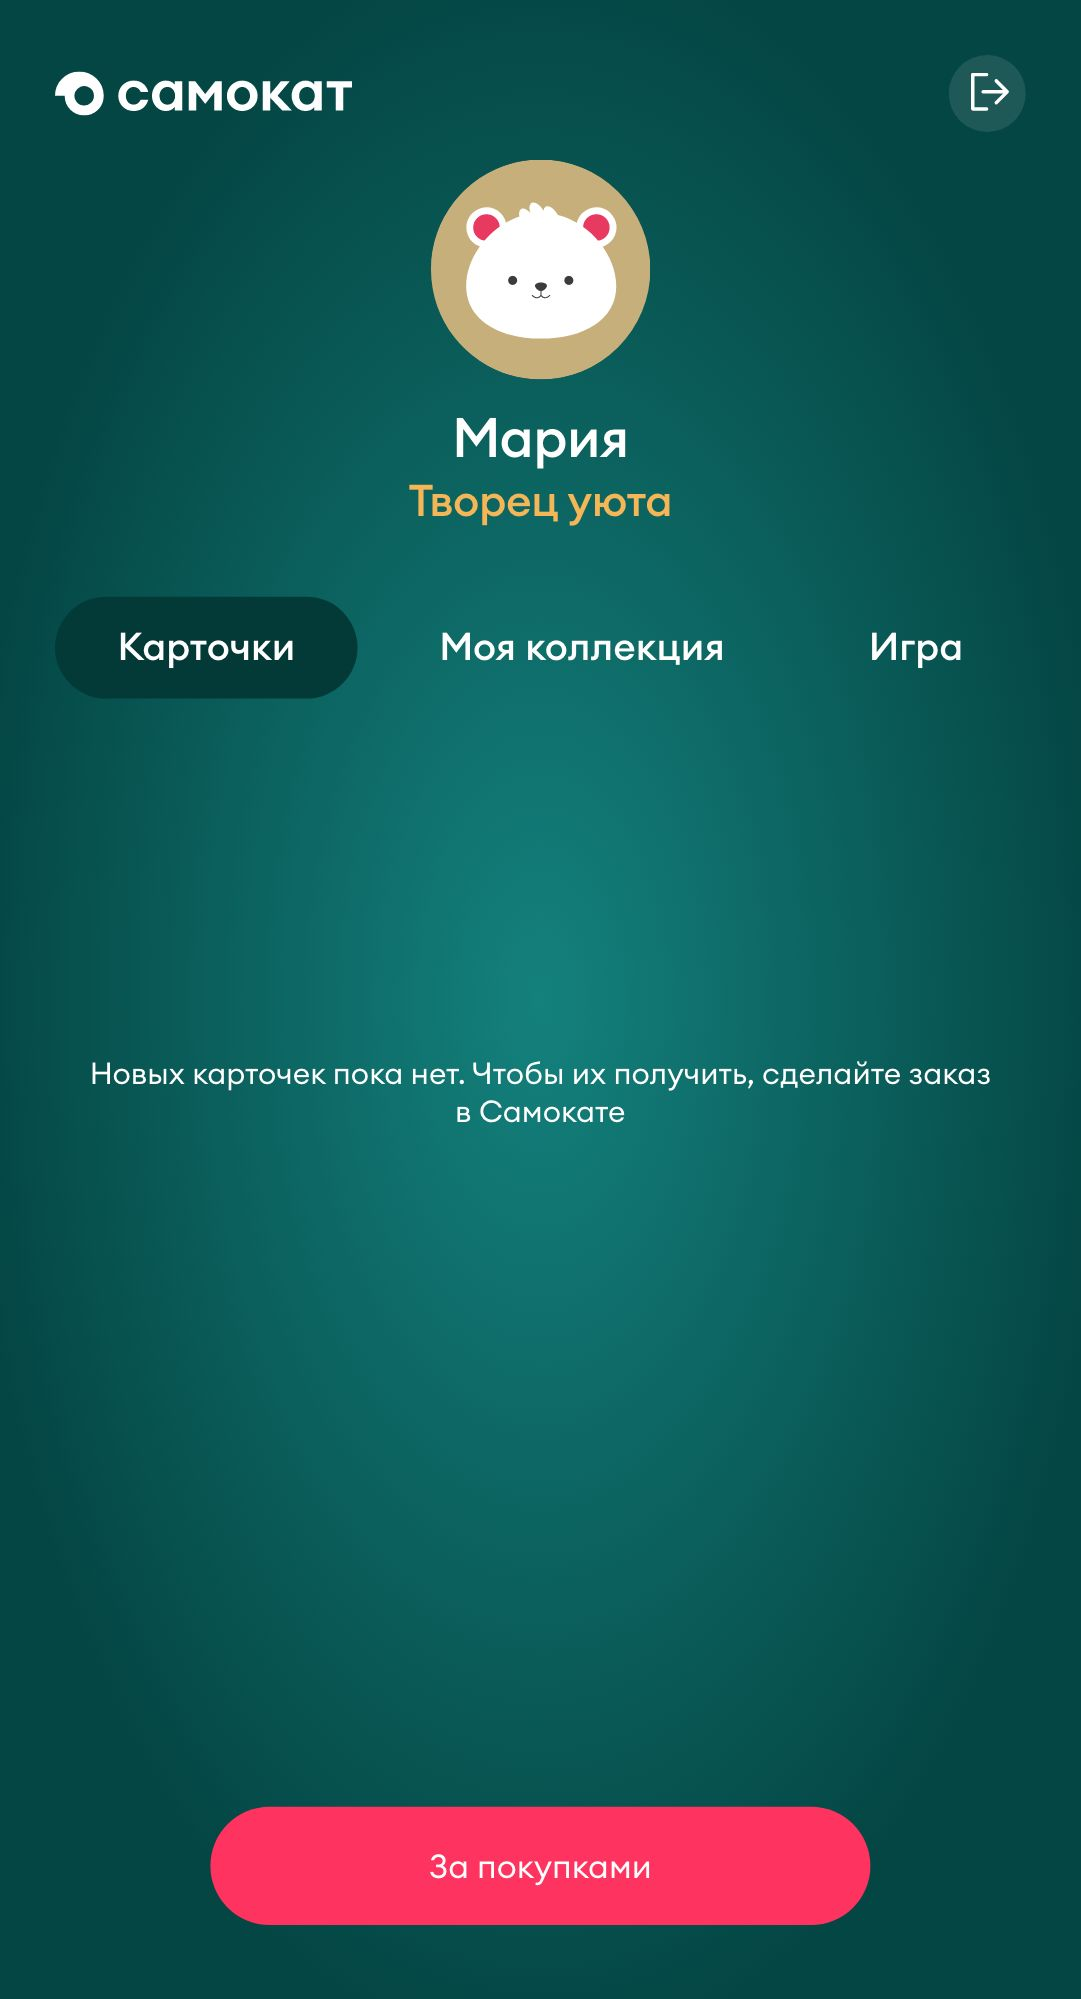
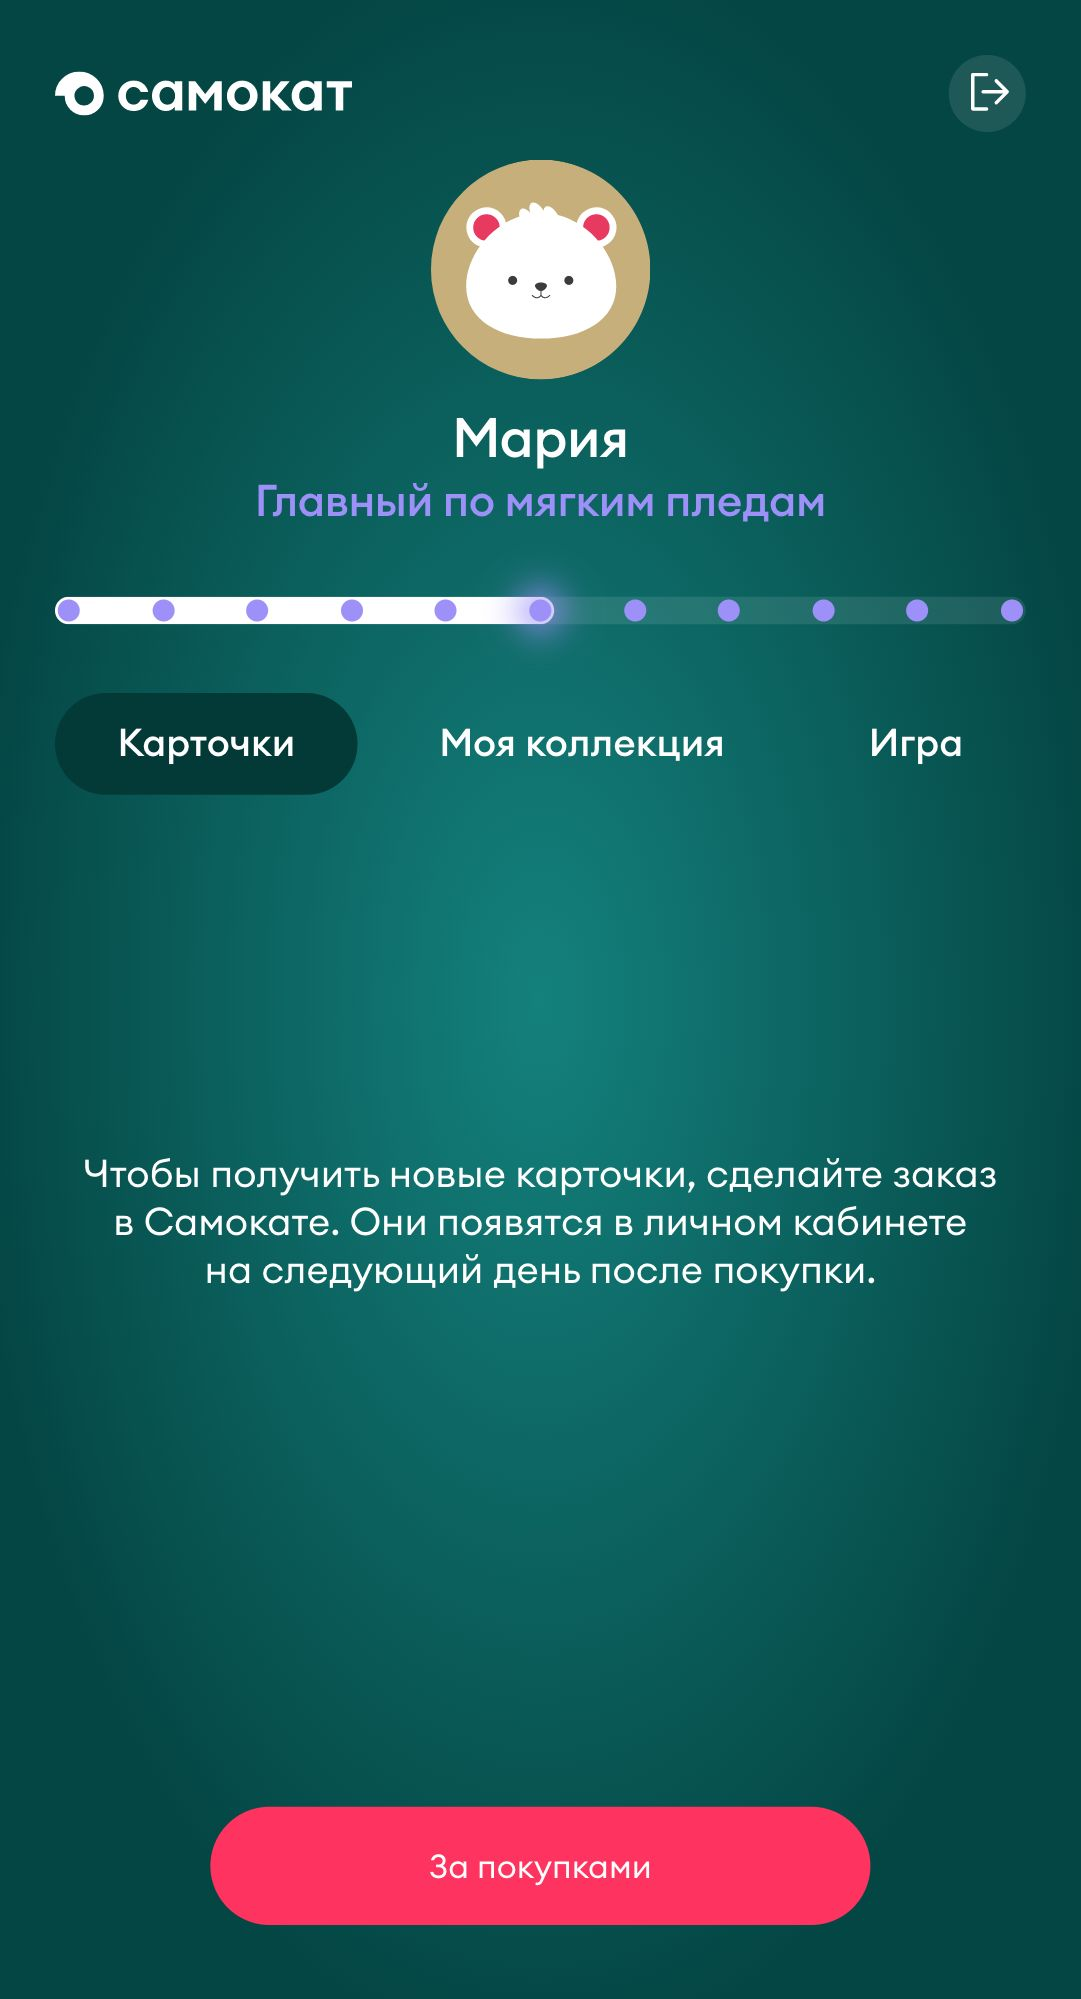
add compares with text

Changed region(s): [[0.0305, 0.2171, 0.9463, 0.4032], [0.0916, 0.5273, 0.9158, 0.6513], [0.4884, 0.3722, 0.6716, 0.4032]]

diff --git a/tests/example.spec.js b/tests/example.spec.js
@@ -31,7 +31,7 @@ test.describe('Click tabs', () =>  {
 
   test('should be successfull click on tab cards and open 1 card',  async ({ page }) => {
   await page.getByRole('tab', { name: 'Карточки' }).dblclick();
-  await expect(page).toHaveURL('https://samokat2023-test.smartheadtest.ru/?tab=cards');
+  await expect(page).toHaveURL('https://samokat2023-test.smartheadtest.ru/');
   await page.screenshot({ path: 'img/cards.jpg' })
   await page.getByRole('button', { name: 'ПЕРЕВЕРНУТЬ' }).dblclick();
   await page.screenshot({ path: 'img/opencard.jpg' })
@@ -46,6 +46,13 @@ test('should be successfull click on tab game and start it',  async ({ page }) =
   await page.getByRole('button', { name: 'Начать' }).click();
 
   })
+
+test('should be unavailable level prize', async ({page}) => {
+  await page.goto('https://samokat2023-test.smartheadtest.ru/getPrize')
+  const textUnavailablePrizes = page.locator('//*[@id="__next"]/div/div/div/div[5]/p');
+  await expect(textUnavailablePrizes).toHaveText('Приз этого уровня недоступен или уже был получен');
+  await page.goBack();
+})
 
 });
 
